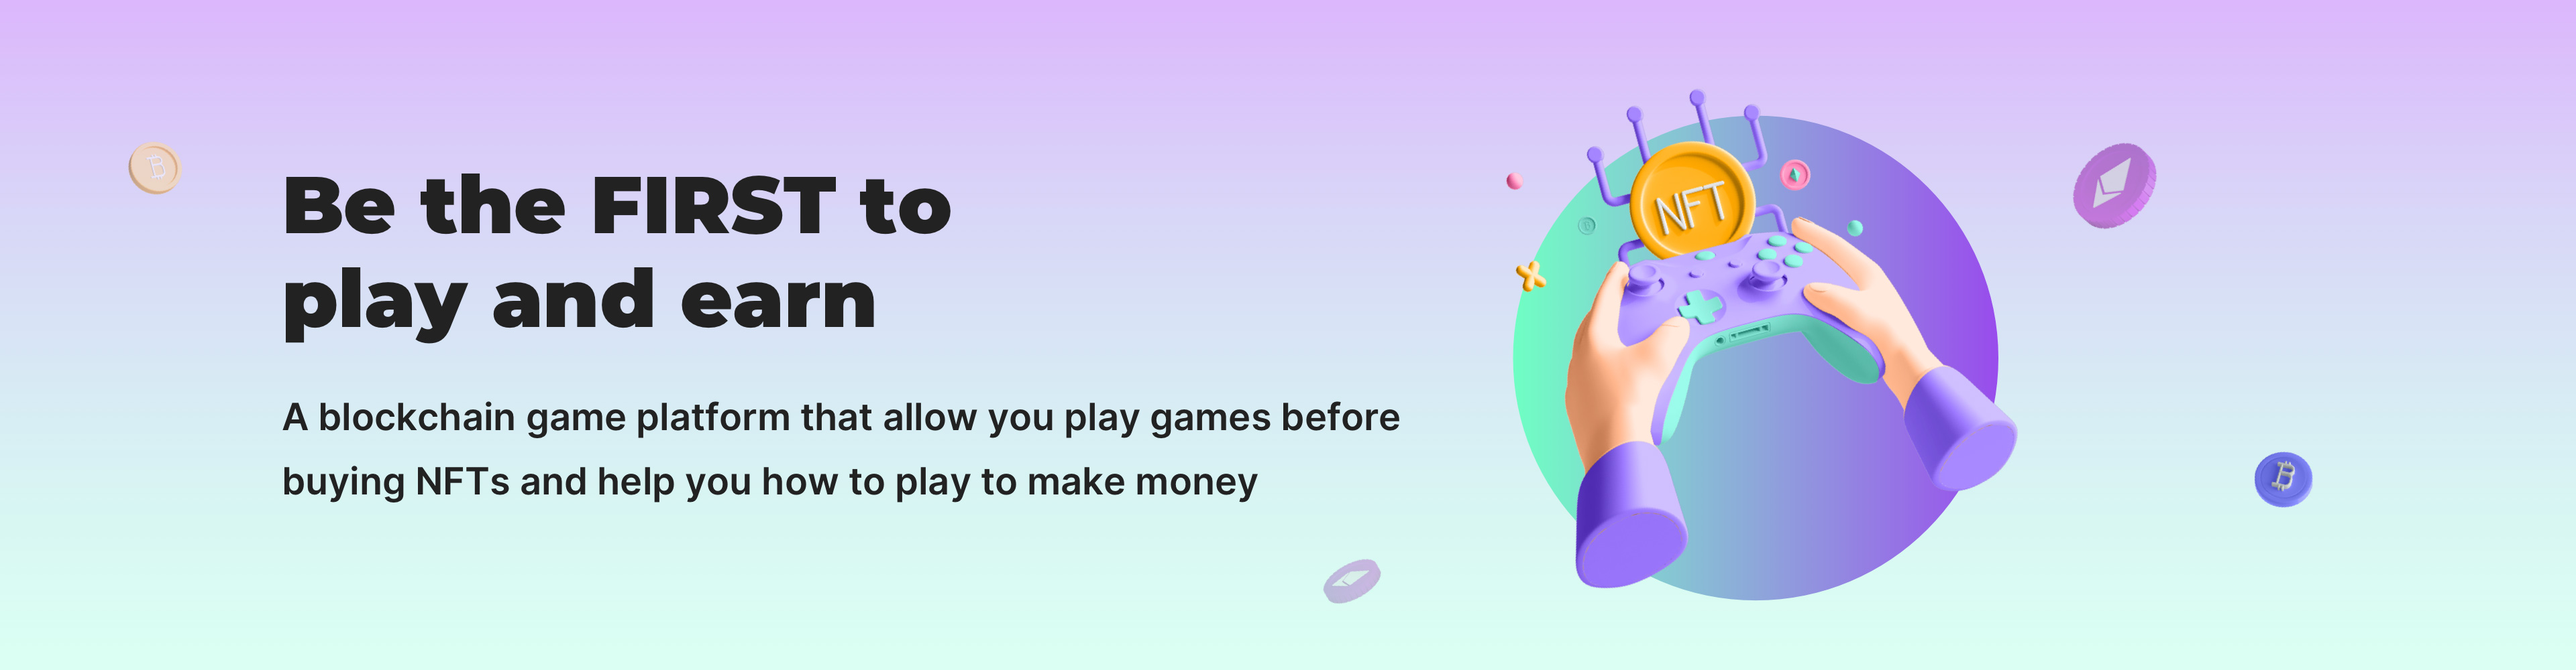
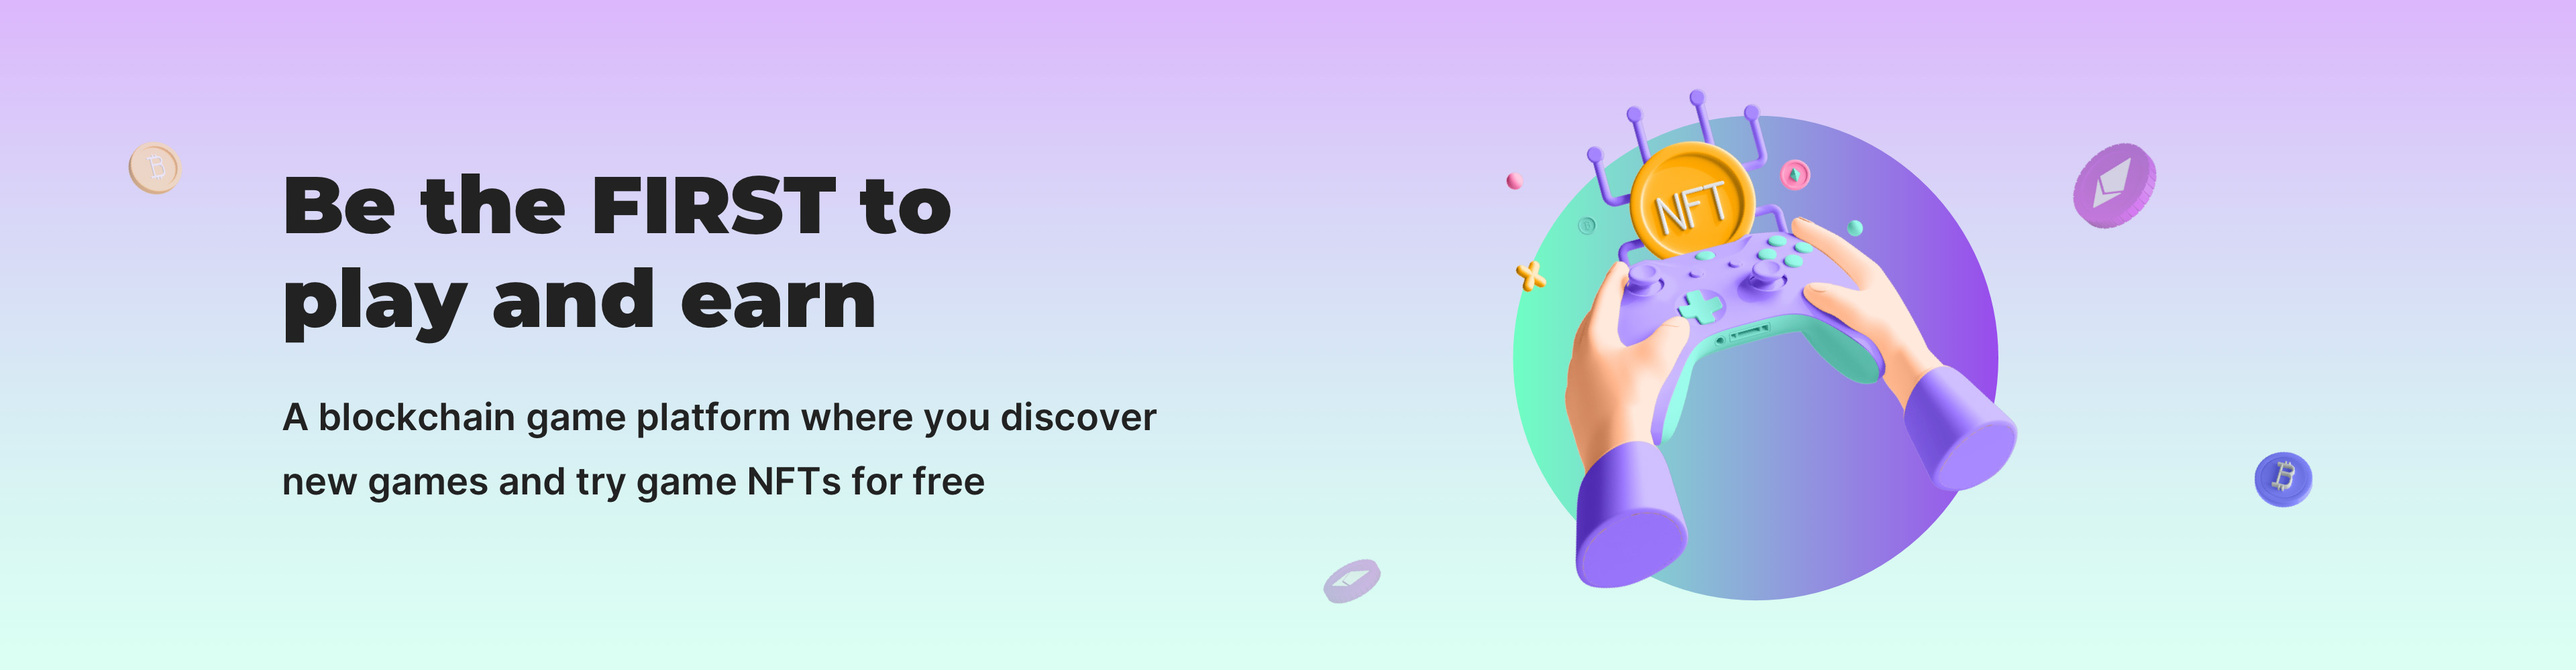
fix: update contact mail and update top cover image

Changed region(s): [[0.0938, 0.682, 0.5, 0.744], [0.3125, 0.589, 0.5625, 0.651]]

diff --git a/pages/profile.tsx b/pages/profile.tsx
@@ -14,6 +14,7 @@ import ActicvChainConfirm from "@/components/PageModals/activeChainConfirm";
 import ContractTxLoading from "@/components/PageModals/ContractTxLoading";
 import ProfileNFTCard from "@/components/ProfileNFTCard";
 import ProfileActivityTable from "@/components/PageProfile/ProfileActivityTabale";
+import Head from "next/head";
 
 enum TabItem {
   Items,
@@ -49,6 +50,11 @@ const Profile: NextPageWithLayout = () => {
   }
 
   return <Box className={styles.containerBox}>
+    <Head>
+      <title>Profile | FirstPlay</title>
+      <meta name="description" content="A blockchain game platform where you discover new games and try game NFTs for free" />
+      <link rel="icon" href="/favicon.ico" />
+    </Head>
     <Box className={styles.profileHeaderBox}>
       <Box className={styles.profileHeader}>
         <Box className={styles.headerInfo}>
@@ -87,7 +93,7 @@ const Profile: NextPageWithLayout = () => {
         className={styles.tabsHeader}
         value={activeTab}
         onChange={(_: any, newItem: number) => setActiveTab(newItem)} >
-        <Tab label="Items" value={TabItem.Items} disableRipple  />
+        <Tab label="Items" value={TabItem.Items} disableRipple />
         <Tab label="Activity" value={TabItem.Activity} disableRipple />
       </Tabs>
       {

diff --git a/pages/index.tsx b/pages/index.tsx
@@ -31,8 +31,8 @@ const FirstPlay: NextPageWithLayout<InferGetStaticPropsType<typeof getStaticProp
 
   return <Box>
     <Head>
-      <title>FirstPlay | Home</title>
-      <meta name="description" content="Be the first to play and earn | A blockchain game platform that allow you play games before buying NFTs and help you how to play to make money" />
+      <title>FirstPlay</title>
+      <meta name="description" content="A blockchain game platform where you discover new games and try game NFTs for free" />
       <link rel="icon" href="/favicon.ico" />
     </Head>
     <Box className={styles.coverBox}>
@@ -53,7 +53,7 @@ const FirstPlay: NextPageWithLayout<InferGetStaticPropsType<typeof getStaticProp
       <Typography variant="h3">{t('title')}</Typography>
       <Typography>
         {t.rich('subTitle', {
-          maillink: (children) => <a target="__blank" href="mailto:business@firstplay.io"><span>{children}</span></a>
+          maillink: (children) => <a target="__blank" href="mailto:business@firstplay.app"><span>{children}</span></a>
         })}
       </Typography>
     </Box>

diff --git a/pages/strategy/[slug].tsx b/pages/strategy/[slug].tsx
@@ -9,6 +9,7 @@ import React, { ReactElement } from 'react'
 import { getGameInfo } from 'services/home'
 import { getAllPosts, getPostBySlug, markdownToHtml } from 'util/markdown'
 import styles from '../../styles/strategy.module.scss'
+import Head from 'next/head'
 
 const StrategyArticle: NextPageWithLayout<{ content: string, post: Record<string, any>, gameInfo: Record<string, any> }> = (props) => {
   const { content, post, gameInfo } = props
@@ -26,6 +27,11 @@ const StrategyArticle: NextPageWithLayout<{ content: string, post: Record<string
   }
 
   return <Box>
+    <Head>
+      <title>Strategy | FirstPlay</title>
+      <meta name="description" content="A blockchain game platform where you discover new games and try game NFTs for free" />
+      <link rel="icon" href="/favicon.ico" />
+    </Head>
     <Box className={styles.topCover}>
       <Image priority loader={imageKitLoader} src={post.coverImage} layout='fill' objectFit='cover' />
     </Box>

diff --git a/pages/game.tsx b/pages/game.tsx
@@ -14,6 +14,7 @@ import TrialNFTCard from '@/components/TrialNFTCard'
 import TrialNFTCardSkeleton from '@/components/TrialNFTCard/TrialNFTCardSkeleton'
 import TrialSuccessModal from '@/components/PageModals/TrialSuccess'
 import QuickTrialNFT from '@/components/PageModals/quickTrialNFT'
+import Head from 'next/head'
 
 
 // 游戏详情页
@@ -29,6 +30,11 @@ const Game: NextPageWithLayout = () => {
   }, [router])
 
   return <Box className={styles.gameBox}>
+    <Head>
+      <title>Games | FirstPlay</title>
+      <meta name="description" content="A blockchain game platform where you discover new games and try game NFTs for free" />
+      <link rel="icon" href="/favicon.ico" />
+    </Head>
     <Box className={styles.topCover}>
       <Image src="https://tva1.sinaimg.cn/large/e6c9d24egy1h3xhds6ikrj20zo0ibtcv.jpg" layout='fill' objectFit='cover' />
     </Box>

diff --git a/pages/dashboard.tsx b/pages/dashboard.tsx
@@ -10,6 +10,7 @@ import { useRouter } from 'next/router'
 import Moralis from 'moralis'
 import { AXE_NFT_CONTRACT, FIRSTPLAY_MARKET_CONTRACT } from 'constants/contract'
 import { FIRSTPLYA_MARKET_ABI } from 'constants/abi'
+import Head from 'next/head'
 
 Moralis.start({
   apiKey: process.env.NEXT_PUBLIC_MORALIS_ID
@@ -110,6 +111,11 @@ const Dashboard: NextPageWithLayout<InferGetStaticPropsType<typeof getStaticProp
 
   return <Box className={styles.dashboardBox} >
 
+    <Head>
+      <title>Dashboard | FirstPlay</title>
+      <meta name="description" content="A blockchain game platform where you discover new games and try game NFTs for free" />
+      <link rel="icon" href="/favicon.ico" />
+    </Head>
     <Box className={styles.dashboard}>
       <Box className={styles.leftNavBox}>
         <Typography>NFT Manage</Typography>

diff --git a/pages/pass.tsx b/pages/pass.tsx
@@ -75,7 +75,7 @@ const PassNFT: NextPageWithLayout = () => {
   return <Box className={styles.containBox}>
     <Head>
       <title>PassNFT | FirstPlay</title>
-      <meta name="description" content="Be the first to play and earn | A blockchain game platform that allow you play games before buying NFTs and help you how to play to make money" />
+      <meta name="description" content="A blockchain game platform where you discover new games and try game NFTs for free" />
       <link rel="icon" href="/favicon.ico" />
     </Head>
     <Box className={styles.container}>

diff --git a/pages/home.tsx b/pages/home.tsx
@@ -7,8 +7,8 @@ const Home: NextPage = () => {
   return (
     <div className={styles.container}>
       <Head>
-        <title>Create Next App</title>
-        <meta name="description" content="Generated by create next app" />
+        <title>Firstplay</title>
+        <meta name="description" content="A blockchain game platform where you discover new games and try game NFTs for free" />
         <link rel="icon" href="/favicon.ico" />
       </Head>
 
